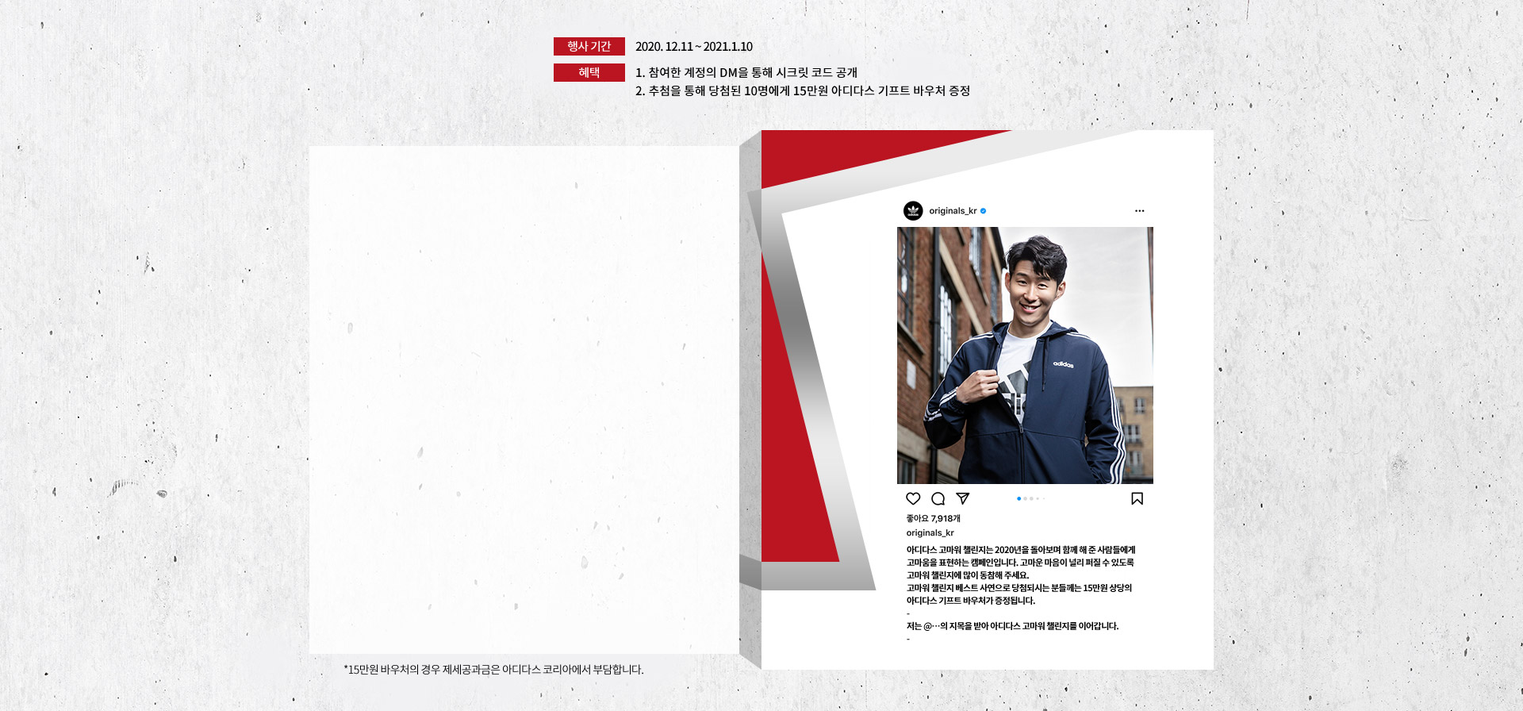
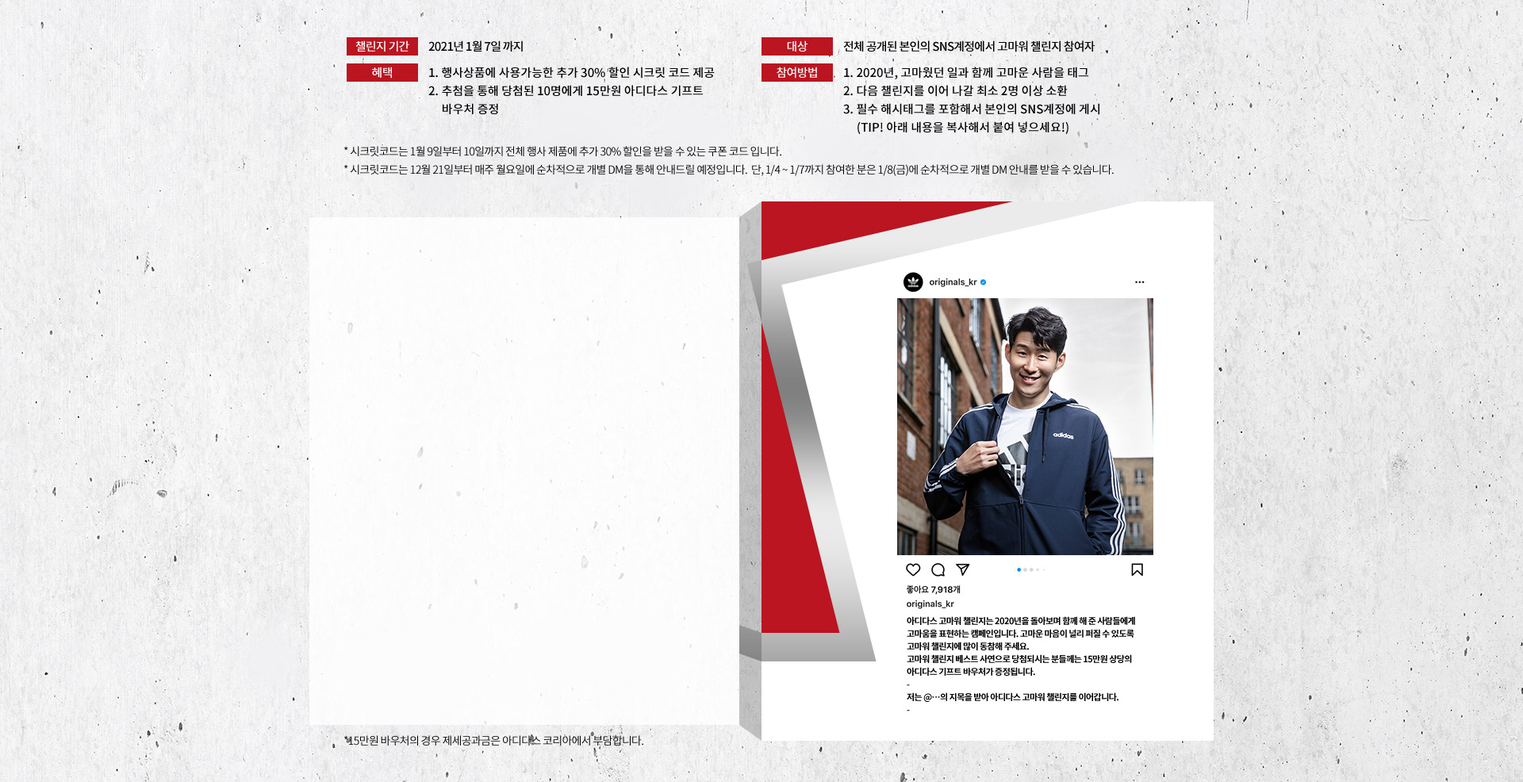
YES

Changed region(s): [[0.2188, 0.0312, 0.7812, 0.9062], [0.2188, 0.9375, 0.4375, 0.9688], [0.75, 0.1875, 0.8125, 0.25]]

diff --git a/front/html/adidas/2020/event/yearendsale/build/index.html b/front/html/adidas/2020/event/yearendsale/build/index.html
@@ -31,7 +31,7 @@
 		<header include-html="/html/adidas/inc/header.html"></header>
 
 		<div id="container_r" class="campaign-content">
-<style type="text/css">.pseudo-element{content:'';display:block}.button_area_v2{display:inline-block}.button_area_v2:hover div a{color:#767677}.button_area_v2:hover div a span{background:#767677}.button_area_v2:hover div a span em{background:#767677}.button_area_v2 div.white .bg{box-shadow:inset 0 0 0 1px #fff;-webkit-box-shadow:inset 0 0 0 1px #fff;transition:all 0.5s;-webkit-transition:all 0.5s;-moz-transition:all 0.5s;-o-transition:all 0.5s;-ms-transition:all 0.5s}.button_area_v2 div.white a{background:#fff}.button_area_v2 div .bg{box-shadow:inset 0 0 0 1px #000;-webkit-box-shadow:inset 0 0 0 1px #000;transition:all 0.5s;-webkit-transition:all 0.5s;-moz-transition:all 0.5s;-o-transition:all 0.5s;-ms-transition:all 0.5s}.button_area_v2 div a{letter-spacing:1px;padding:0 20px;background:#000}div,img,button{outline:none}span,p{white-space:nowrap}#yearendsale section{position:relative;margin:0 auto;min-width:1190px}#yearendsale .bg01{background:url("/images/adidas/2020/event/yearendsale/bg01.jpg") no-repeat;background-position:top;background-size:auto 100%}#yearendsale .bg01.bg01,#yearendsale .bg01.bg02{background-size:auto auto}#yearendsale .bg01.bg03{background-size:auto 100%}#yearendsale .bg02{background:url("/images/adidas/2020/event/yearendsale/bg02.jpg") no-repeat;background-position:top;background-size:auto 100%}#yearendsale .bg02.bg01,#yearendsale .bg02.bg02{background-size:auto auto}#yearendsale .bg02.bg03{background-size:auto 100%}#yearendsale .bg03{background:url("/images/adidas/2020/event/yearendsale/bg03.jpg") no-repeat;background-position:top;background-size:auto 100%}#yearendsale .bg03.bg01,#yearendsale .bg03.bg02{background-size:auto auto}#yearendsale .bg03.bg03{background-size:auto 100%}#yearendsale .bg04{background:url("/images/adidas/2020/event/yearendsale/bg04.jpg") no-repeat;background-position:top;background-size:auto 100%}#yearendsale .bg04.bg01,#yearendsale .bg04.bg02{background-size:auto auto}#yearendsale .bg04.bg03{background-size:auto 100%}#yearendsale .bg05{background:url("/images/adidas/2020/event/yearendsale/bg05.jpg") no-repeat;background-position:top;background-size:auto 100%}#yearendsale .bg05.bg01,#yearendsale .bg05.bg02{background-size:auto auto}#yearendsale .bg05.bg03{background-size:auto 100%}#yearendsale .bg06{background:url("/images/adidas/2020/event/yearendsale/bg06.jpg") no-repeat;background-position:top;background-size:auto 100%}#yearendsale .bg06.bg01,#yearendsale .bg06.bg02{background-size:auto auto}#yearendsale .bg06.bg03{background-size:auto 100%}#yearendsale .visuals{height:auto}#yearendsale .visuals div[class*=figure] img,#yearendsale .visuals div[class*=figure] video{width:100%}#yearendsale .visuals video{display:block}#yearendsale .visuals .visuals__text{position:absolute;top:56%;bottom:auto;left:18%;transform:translateY(-50%);margin-left:auto}@media screen and (max-width: 1300px){#yearendsale .visuals .visuals__text h3{font:90px/80px "adinenuPro-black";color:#2d3d7b;letter-spacing:4px}#yearendsale .visuals .visuals__text p{font:17px/17px "NotoSansKR";color:#fff;margin:5px 0 40px}}#yearendsale .event__description{height:520px}#yearendsale .event__description div[class*=figure]{position:absolute;top:0;bottom:auto;left:50%;transform:translateX(-50%);margin-left:auto}#yearendsale .slide__container::after{display:block;content:'';clear:both}#yearendsale .slide__container .slider .slick-list .slick-track .item img{margin:0 auto}#yearendsale .slide__container .slider .slick-dots{text-align:center;margin:60px 0 0;left:0;position:relative}#yearendsale .slide__container .slider .slick-dots li{display:inline-block;text-align:center;background:#a5a5a7;width:15px;height:15px;margin-right:9px;border-radius:50%}#yearendsale .slide__container .slider .slick-dots li button{border:0;background:none;text-indent:-9999px}#yearendsale .slide__container .slider .slick-dots li.slick-active{background:#b7131a}#yearendsale .slide__container .slider .slick-dots li:last-of-type{margin:0}#yearendsale .slide__container .slider__nav{position:absolute;top:35%;bottom:auto;left:auto;transform:translateY(-50%);margin-left:auto;width:100%}#yearendsale .slide__container .slider__nav .prev-button{position:absolute;top:50%;bottom:auto;left:0;transform:translateY(-50%);margin-left:auto}#yearendsale .slide__container .slider__nav .next-button{position:absolute;top:50%;bottom:auto;left:auto;transform:translateY(-50%);margin-left:auto;right:0}#yearendsale .slide__container .slider__nav .next-button img{transform:rotate(-180deg)}#yearendsale .slide__container.slide__container01{text-align:center;padding:45px 0}#yearendsale .slide__container.slide__container01 .slider .slick-list{max-width:1850px;overflow:hidden;margin:0 auto}#yearendsale .slide__container.slide__container01 .slider .slick-list .slick-track .item img{width:95.5%}#yearendsale .slide__container.slide__container01 .button_area_v2{padding:45px 0 80px}#yearendsale .slide__container.slide__container02{padding-top:295px;width:auto;min-width:unset;text-align:center}#yearendsale .slide__container.slide__container02 .slider .slick-list{width:530px;margin:0 auto}#yearendsale .slide__container.slide__container02 .slider .slick-list .item>div{position:relative;top:24px;vertical-align:bottom;text-align:center}#yearendsale .slide__container.slide__container02 .slider .slick-list .item>div p,#yearendsale .slide__container.slide__container02 .slider .slick-list .item>div span{text-align:center}#yearendsale .slide__container.slide__container02 .slider .slick-list .item.slick-current>div{top:0}#yearendsale .slide__container.slide__container02 .slider .slick-list .item.slick-current>div p,#yearendsale .slide__container.slide__container02 .slider .slick-list .item.slick-current>div span{font:700 25px/25px "NotoSansKR";color:#000}#yearendsale .slide__container.slide__container02 .slider .slick-dots{margin:80px 0 0;left:0;position:relative}#yearendsale .slide__container.slide__container02 .slider .slick-dots li{background:#a5a5a7}#yearendsale .slide__container.slide__container02 .slider .slick-dots li.slick-active{background:#b7131a}#yearendsale .slide__container.slide__container02 .slider__nav{width:100%;top:54%}#yearendsale .slide__container.slide__container02 .slider__nav .prev-button{left:0}#yearendsale .slide__container.slide__container02 .slider__nav .next-button{right:0}#yearendsale .slide__container.slide__container02 .slider__nav .next-button img{transform:rotate(-180deg)}#yearendsale .slide__container.slide__container02 .button_area_v2{padding:25px 0 50px}#yearendsale .slide__container.slide__container03{width:100%;margin:0 auto;text-align:center}#yearendsale .slide__container.slide__container03 .txt{height:120px}#yearendsale .slide__container.slide__container03 .txt .figure{position:absolute;top:0;bottom:auto;left:50%;transform:translateX(-50%);margin-left:auto}#yearendsale .slide__container.slide__container03 .slider .slick-list{width:80%;margin:0 auto}#yearendsale .slide__container.slide__container03 .slider .slick-list .item{margin:10px}#yearendsale .slide__container.slide__container03 .slider .slick-list .item img{width:100%}#yearendsale .slide__container.slide__container03 .slider .slick-dots{margin:20px 0 15px}#yearendsale .slide__container.slide__container03 .slider__nav{width:100%;top:54%}#yearendsale .slide__container.slide__container03 .slider__nav .prev-button{left:20px}#yearendsale .slide__container.slide__container03 .slider__nav .next-button{right:20px}#yearendsale .slide__container.slide__container03 .slider__nav .next-button img{transform:rotate(-180deg)}#yearendsale .hashText{text-align:center;padding:90px 0 40px 0}#yearendsale .hashText p{text-align:center;font:500 18px/26px "NotoSansKR";color:#000;margin-top:25px}#yearendsale .informations{padding-top:896px}#yearendsale .informations .txt{position:absolute;top:55%;bottom:auto;left:auto;transform:translateY(-50%);margin-left:auto;right:50%;margin-right:77px}#yearendsale .informations .txt p{font:500 15px/24px "NotoSansKR";color:#000}#yearendsale .informations .txt p em{font:900 15px/24px "NotoSansKR";color:#ba1521}#yearendsale .informations .txt p em.last{color:#000}#yearendsale .informations .txt p span{font:500 14px/23px "NotoSansKR";color:#ba1521;display:block;margin:10px 0}#yearendsale .informations .txt p .cont{line-height:20px;font:500 15px/24px "NotoSansKR";color:#000;color:#000}#yearendsale .informations .txt p .italics1{font:500 15px/24px "NotoSansKR";color:#000}#yearendsale .informations .txt p .italics1,#yearendsale .informations .txt p .italics2{font-style:italic}#yearendsale .slider__wrapper .txt{text-align:center;padding:85px 0}#yearendsale .slider__wrapper .coupons{position:absolute;top:327px;bottom:auto;left:50%;transform:translateX(-50%);margin-left:auto;z-index:2}#yearendsale .lookGift{text-align:center;padding:90px 0 80px}#yearendsale .lookGift .txt{text-align:center;padding-bottom:50px}#yearendsale .lookGift .txt>img{display:block;margin:0 auto}#yearendsale .lookGift .txt .button_area_v2{display:inline-block;margin-top:25px}#yearendsale .lookGift .txt .button_area_v2 .bg{box-shadow:inset 0 0 0 1px #ba1621;-webkit-box-shadow:inset 0 0 0 1px #ba1621}#yearendsale .lookGift .txt .button_area_v2 a{background:#ba1621}#yearendsale .lookGift .item{width:1270px;margin:0 auto}#yearendsale .eventInfo{height:1204px}#yearendsale .eventInfo .eventInfo__visual{position:absolute;top:0;bottom:auto;left:50%;transform:translateX(-50%);margin-left:auto}#yearendsale .eventInfo .button_area_v2{position:absolute;top:auto;bottom:376px;left:auto;transform:translateX(-50%);margin-left:auto;right:50%;margin-right:-201px}#yearendsale .eventInfo .button_area_v2:last-child{bottom:237px;margin-right:-192px}#yearendsale .bottoms{height:665px}#yearendsale .bottoms .bottoms__figure{position:absolute;top:0;bottom:auto;left:50%;transform:translateX(-50%);margin-left:auto}
+<style type="text/css">.pseudo-element{content:'';display:block}.button_area_v2{display:inline-block}.button_area_v2:hover div a{color:#767677}.button_area_v2:hover div a span{background:#767677}.button_area_v2:hover div a span em{background:#767677}.button_area_v2 div.white .bg{box-shadow:inset 0 0 0 1px #fff;-webkit-box-shadow:inset 0 0 0 1px #fff;transition:all 0.5s;-webkit-transition:all 0.5s;-moz-transition:all 0.5s;-o-transition:all 0.5s;-ms-transition:all 0.5s}.button_area_v2 div.white a{background:#fff}.button_area_v2 div .bg{box-shadow:inset 0 0 0 1px #000;-webkit-box-shadow:inset 0 0 0 1px #000;transition:all 0.5s;-webkit-transition:all 0.5s;-moz-transition:all 0.5s;-o-transition:all 0.5s;-ms-transition:all 0.5s}.button_area_v2 div a{letter-spacing:1px;padding:0 20px;background:#000}div,img,button{outline:none}span,p{white-space:nowrap}#yearendsale section{position:relative;margin:0 auto;min-width:1190px}#yearendsale .bg01{background:url("/images/adidas/2020/event/yearendsale/bg01.jpg") no-repeat;background-position:top;background-size:auto 100%}#yearendsale .bg01.bg02{background-size:auto auto}#yearendsale .bg01.bg01,#yearendsale .bg01.bg03{background-size:auto 100%}#yearendsale .bg02{background:url("/images/adidas/2020/event/yearendsale/bg02.jpg") no-repeat;background-position:top;background-size:auto 100%}#yearendsale .bg02.bg02{background-size:auto auto}#yearendsale .bg02.bg01,#yearendsale .bg02.bg03{background-size:auto 100%}#yearendsale .bg03{background:url("/images/adidas/2020/event/yearendsale/bg03.jpg") no-repeat;background-position:top;background-size:auto 100%}#yearendsale .bg03.bg02{background-size:auto auto}#yearendsale .bg03.bg01,#yearendsale .bg03.bg03{background-size:auto 100%}#yearendsale .bg04{background:url("/images/adidas/2020/event/yearendsale/bg04.jpg") no-repeat;background-position:top;background-size:auto 100%}#yearendsale .bg04.bg02{background-size:auto auto}#yearendsale .bg04.bg01,#yearendsale .bg04.bg03{background-size:auto 100%}#yearendsale .bg05{background:url("/images/adidas/2020/event/yearendsale/bg05.jpg") no-repeat;background-position:top;background-size:auto 100%}#yearendsale .bg05.bg02{background-size:auto auto}#yearendsale .bg05.bg01,#yearendsale .bg05.bg03{background-size:auto 100%}#yearendsale .bg06{background:url("/images/adidas/2020/event/yearendsale/bg06.jpg") no-repeat;background-position:top;background-size:auto 100%}#yearendsale .bg06.bg02{background-size:auto auto}#yearendsale .bg06.bg01,#yearendsale .bg06.bg03{background-size:auto 100%}#yearendsale .visuals{height:auto}#yearendsale .visuals div[class*=figure] img,#yearendsale .visuals div[class*=figure] video{width:100%}#yearendsale .visuals video{display:block}#yearendsale .visuals .visuals__text{position:absolute;top:56%;bottom:auto;left:18%;transform:translateY(-50%);margin-left:auto}@media screen and (max-width: 1300px){#yearendsale .visuals .visuals__text h3{font:90px/80px "adinenuPro-black";color:#2d3d7b;letter-spacing:4px}#yearendsale .visuals .visuals__text p{font:17px/17px "NotoSansKR";color:#fff;margin:5px 0 40px}}#yearendsale .event__description{height:520px}#yearendsale .event__description div[class*=figure]{position:absolute;top:0;bottom:auto;left:50%;transform:translateX(-50%);margin-left:auto}#yearendsale .slide__container::after{display:block;content:'';clear:both}#yearendsale .slide__container .slider .slick-list .slick-track .item img{margin:0 auto}#yearendsale .slide__container .slider .slick-dots{text-align:center;margin:60px 0 0;left:0;position:relative}#yearendsale .slide__container .slider .slick-dots li{display:inline-block;text-align:center;background:#a5a5a7;width:15px;height:15px;margin-right:9px;border-radius:50%}#yearendsale .slide__container .slider .slick-dots li button{border:0;background:none;text-indent:-9999px}#yearendsale .slide__container .slider .slick-dots li.slick-active{background:#b7131a}#yearendsale .slide__container .slider .slick-dots li:last-of-type{margin:0}#yearendsale .slide__container .slider__nav{position:absolute;top:35%;bottom:auto;left:auto;transform:translateY(-50%);margin-left:auto;width:100%}#yearendsale .slide__container .slider__nav .prev-button{position:absolute;top:50%;bottom:auto;left:0;transform:translateY(-50%);margin-left:auto}#yearendsale .slide__container .slider__nav .next-button{position:absolute;top:50%;bottom:auto;left:auto;transform:translateY(-50%);margin-left:auto;right:0}#yearendsale .slide__container .slider__nav .next-button img{transform:rotate(-180deg)}#yearendsale .slide__container.slide__container01{text-align:center;padding:45px 0}#yearendsale .slide__container.slide__container01 .slider .slick-list{max-width:1850px;overflow:hidden;margin:0 auto}#yearendsale .slide__container.slide__container01 .slider .slick-list .slick-track .item img{width:95.5%}#yearendsale .slide__container.slide__container01 .button_area_v2{padding:45px 0 80px}#yearendsale .slide__container.slide__container02{padding-top:295px;width:auto;min-width:unset;text-align:center}#yearendsale .slide__container.slide__container02 .slider .slick-list{width:530px;margin:0 auto}#yearendsale .slide__container.slide__container02 .slider .slick-list .item>div{position:relative;top:24px;vertical-align:bottom;text-align:center}#yearendsale .slide__container.slide__container02 .slider .slick-list .item>div p,#yearendsale .slide__container.slide__container02 .slider .slick-list .item>div span{text-align:center}#yearendsale .slide__container.slide__container02 .slider .slick-list .item.slick-current>div{top:0}#yearendsale .slide__container.slide__container02 .slider .slick-list .item.slick-current>div p,#yearendsale .slide__container.slide__container02 .slider .slick-list .item.slick-current>div span{font:700 25px/25px "NotoSansKR";color:#000}#yearendsale .slide__container.slide__container02 .slider .slick-dots{margin:80px 0 0;left:0;position:relative}#yearendsale .slide__container.slide__container02 .slider .slick-dots li{background:#a5a5a7}#yearendsale .slide__container.slide__container02 .slider .slick-dots li.slick-active{background:#b7131a}#yearendsale .slide__container.slide__container02 .slider__nav{width:100%;top:54%}#yearendsale .slide__container.slide__container02 .slider__nav .prev-button{left:0}#yearendsale .slide__container.slide__container02 .slider__nav .next-button{right:0}#yearendsale .slide__container.slide__container02 .slider__nav .next-button img{transform:rotate(-180deg)}#yearendsale .slide__container.slide__container02 .button_area_v2{padding:25px 0 50px}#yearendsale .slide__container.slide__container03{width:100%;margin:0 auto;text-align:center}#yearendsale .slide__container.slide__container03 .txt{height:120px}#yearendsale .slide__container.slide__container03 .txt .figure{position:absolute;top:0;bottom:auto;left:50%;transform:translateX(-50%);margin-left:auto}#yearendsale .slide__container.slide__container03 .slider .slick-list{width:80%;margin:0 auto}#yearendsale .slide__container.slide__container03 .slider .slick-list .item{margin:10px}#yearendsale .slide__container.slide__container03 .slider .slick-list .item img{width:100%}#yearendsale .slide__container.slide__container03 .slider .slick-dots{margin:20px 0 15px}#yearendsale .slide__container.slide__container03 .slider__nav{width:100%;top:54%}#yearendsale .slide__container.slide__container03 .slider__nav .prev-button{left:20px}#yearendsale .slide__container.slide__container03 .slider__nav .next-button{right:20px}#yearendsale .slide__container.slide__container03 .slider__nav .next-button img{transform:rotate(-180deg)}#yearendsale .hashText{text-align:center;padding:90px 0 40px 0}#yearendsale .hashText p{text-align:center;font:500 18px/26px "NotoSansKR";color:#000;margin-top:25px}#yearendsale .informations{padding-top:986px}#yearendsale .informations .txt{position:absolute;top:59%;bottom:auto;left:auto;transform:translateY(-50%);margin-left:auto;right:50%;margin-right:77px}#yearendsale .informations .txt p{font:500 15px/24px "NotoSansKR";color:#000}#yearendsale .informations .txt p em{font:900 15px/24px "NotoSansKR";color:#ba1521}#yearendsale .informations .txt p em.last{color:#000}#yearendsale .informations .txt p span{font:500 14px/23px "NotoSansKR";color:#ba1521;display:block;margin:10px 0}#yearendsale .informations .txt p .cont{line-height:20px;font:500 15px/24px "NotoSansKR";color:#000;color:#000}#yearendsale .informations .txt p .italics1{font:500 15px/24px "NotoSansKR";color:#000}#yearendsale .informations .txt p .italics1,#yearendsale .informations .txt p .italics2{font-style:italic}#yearendsale .slider__wrapper .txt{text-align:center;padding:85px 0}#yearendsale .slider__wrapper .coupons{position:absolute;top:327px;bottom:auto;left:50%;transform:translateX(-50%);margin-left:auto;z-index:2}#yearendsale .lookGift{text-align:center;padding:90px 0 80px}#yearendsale .lookGift .txt{text-align:center;padding-bottom:50px}#yearendsale .lookGift .txt>img{display:block;margin:0 auto}#yearendsale .lookGift .txt .button_area_v2{display:inline-block;margin-top:25px}#yearendsale .lookGift .txt .button_area_v2 .bg{box-shadow:inset 0 0 0 1px #ba1621;-webkit-box-shadow:inset 0 0 0 1px #ba1621}#yearendsale .lookGift .txt .button_area_v2 a{background:#ba1621}#yearendsale .lookGift .item{width:1270px;margin:0 auto}#yearendsale .eventInfo{height:1204px}#yearendsale .eventInfo .eventInfo__visual{position:absolute;top:0;bottom:auto;left:50%;transform:translateX(-50%);margin-left:auto}#yearendsale .eventInfo .button_area_v2{position:absolute;top:auto;bottom:376px;left:auto;transform:translateX(-50%);margin-left:auto;right:50%;margin-right:-201px}#yearendsale .eventInfo .button_area_v2:last-child{bottom:237px;margin-right:-192px}#yearendsale .bottoms{height:665px}#yearendsale .bottoms .bottoms__figure{position:absolute;top:0;bottom:auto;left:50%;transform:translateX(-50%);margin-left:auto}
 </style>
 			<link rel="stylesheet" type="text/css" href="/css/slick.css" />		
 			<div id="yearendsale">
@@ -63,13 +63,16 @@
 					<section class="slide__container slide__container01 bg01">
 						<div id="slider01" class="slider">
 							<div class="item">
-								<img src="/images/adidas/2020/event/yearendsale/slide01_01.png" alt="상품이미지01">
+								<img src="/images/adidas/2020/event/yearendsale/slide01_04.png" alt="상품이미지04">
 							</div>
 							<div class="item">
 								<img src="/images/adidas/2020/event/yearendsale/slide01_02.png" alt="상품이미지02">
 							</div>
 							<div class="item">
 								<img src="/images/adidas/2020/event/yearendsale/slide01_03.png" alt="상품이미지03">
+							</div>
+							<div class="item">
+								<img src="/images/adidas/2020/event/yearendsale/slide01_01.png" alt="상품이미지01">
 							</div>
 						</div>
 						<div class="slider__nav slider__nav01">
@@ -392,7 +395,7 @@
 						} else if ( elem.hasClass('sub-slide02') ) { // 세번째 슬라이드
 							this.mod( 3, false, false, false, true, '', false, false, false );
 						} else { // default slide
-							this.mod( 3, false, false, false, false, '', false, true, false );
+							this.mod( 3, false, false, false, true, '', false, true, false );
 						}
 					}
 

diff --git a/front/html/adidas/html/pn/GIFTSFOR.html b/front/html/adidas/html/pn/GIFTSFOR.html
@@ -1,5 +1,5 @@
 <div id="container_r" class="campaign-content">
-	<style type="text/css">.pseudo-element{content:'';display:block}.button_area_v2{display:inline-block}.button_area_v2:hover div a{color:#767677}.button_area_v2:hover div a span{background:#767677}.button_area_v2:hover div a span em{background:#767677}.button_area_v2 div.white .bg{box-shadow:inset 0 0 0 1px #fff;-webkit-box-shadow:inset 0 0 0 1px #fff;transition:all 0.5s;-webkit-transition:all 0.5s;-moz-transition:all 0.5s;-o-transition:all 0.5s;-ms-transition:all 0.5s}.button_area_v2 div.white a{background:#fff}.button_area_v2 div .bg{box-shadow:inset 0 0 0 1px #000;-webkit-box-shadow:inset 0 0 0 1px #000;transition:all 0.5s;-webkit-transition:all 0.5s;-moz-transition:all 0.5s;-o-transition:all 0.5s;-ms-transition:all 0.5s}.button_area_v2 div a{letter-spacing:1px;padding:0 20px;background:#000}div,img,button{outline:none}span,p{white-space:nowrap}#yearendsale section{position:relative;margin:0 auto;min-width:1190px}#yearendsale .bg01{background:url("/images/adidas/2020/event/yearendsale/bg01.jpg") no-repeat;background-position:top;background-size:auto 100%}#yearendsale .bg01.bg01,#yearendsale .bg01.bg02{background-size:auto auto}#yearendsale .bg01.bg03{background-size:auto 100%}#yearendsale .bg02{background:url("/images/adidas/2020/event/yearendsale/bg02.jpg") no-repeat;background-position:top;background-size:auto 100%}#yearendsale .bg02.bg01,#yearendsale .bg02.bg02{background-size:auto auto}#yearendsale .bg02.bg03{background-size:auto 100%}#yearendsale .bg03{background:url("/images/adidas/2020/event/yearendsale/bg03.jpg") no-repeat;background-position:top;background-size:auto 100%}#yearendsale .bg03.bg01,#yearendsale .bg03.bg02{background-size:auto auto}#yearendsale .bg03.bg03{background-size:auto 100%}#yearendsale .bg04{background:url("/images/adidas/2020/event/yearendsale/bg04.jpg") no-repeat;background-position:top;background-size:auto 100%}#yearendsale .bg04.bg01,#yearendsale .bg04.bg02{background-size:auto auto}#yearendsale .bg04.bg03{background-size:auto 100%}#yearendsale .bg05{background:url("/images/adidas/2020/event/yearendsale/bg05.jpg") no-repeat;background-position:top;background-size:auto 100%}#yearendsale .bg05.bg01,#yearendsale .bg05.bg02{background-size:auto auto}#yearendsale .bg05.bg03{background-size:auto 100%}#yearendsale .bg06{background:url("/images/adidas/2020/event/yearendsale/bg06.jpg") no-repeat;background-position:top;background-size:auto 100%}#yearendsale .bg06.bg01,#yearendsale .bg06.bg02{background-size:auto auto}#yearendsale .bg06.bg03{background-size:auto 100%}#yearendsale .visuals{height:auto}#yearendsale .visuals div[class*=figure] img,#yearendsale .visuals div[class*=figure] video{width:100%}#yearendsale .visuals video{display:block}#yearendsale .visuals .visuals__text{position:absolute;top:56%;bottom:auto;left:18%;transform:translateY(-50%);margin-left:auto}@media screen and (max-width: 1300px){#yearendsale .visuals .visuals__text h3{font:90px/80px "adinenuPro-black";color:#2d3d7b;letter-spacing:4px}#yearendsale .visuals .visuals__text p{font:17px/17px "NotoSansKR";color:#fff;margin:5px 0 40px}}#yearendsale .event__description{height:520px}#yearendsale .event__description div[class*=figure]{position:absolute;top:0;bottom:auto;left:50%;transform:translateX(-50%);margin-left:auto}#yearendsale .slide__container::after{display:block;content:'';clear:both}#yearendsale .slide__container .slider .slick-list .slick-track .item img{margin:0 auto}#yearendsale .slide__container .slider .slick-dots{text-align:center;margin:60px 0 0;left:0;position:relative}#yearendsale .slide__container .slider .slick-dots li{display:inline-block;text-align:center;background:#a5a5a7;width:15px;height:15px;margin-right:9px;border-radius:50%}#yearendsale .slide__container .slider .slick-dots li button{border:0;background:none;text-indent:-9999px}#yearendsale .slide__container .slider .slick-dots li.slick-active{background:#b7131a}#yearendsale .slide__container .slider .slick-dots li:last-of-type{margin:0}#yearendsale .slide__container .slider__nav{position:absolute;top:35%;bottom:auto;left:auto;transform:translateY(-50%);margin-left:auto;width:100%}#yearendsale .slide__container .slider__nav .prev-button{position:absolute;top:50%;bottom:auto;left:0;transform:translateY(-50%);margin-left:auto}#yearendsale .slide__container .slider__nav .next-button{position:absolute;top:50%;bottom:auto;left:auto;transform:translateY(-50%);margin-left:auto;right:0}#yearendsale .slide__container .slider__nav .next-button img{transform:rotate(-180deg)}#yearendsale .slide__container.slide__container01{text-align:center;padding:45px 0}#yearendsale .slide__container.slide__container01 .slider .slick-list{max-width:1850px;overflow:hidden;margin:0 auto}#yearendsale .slide__container.slide__container01 .slider .slick-list .slick-track .item img{width:95.5%}#yearendsale .slide__container.slide__container01 .button_area_v2{padding:45px 0 80px}#yearendsale .slide__container.slide__container02{padding-top:295px;width:auto;min-width:unset;text-align:center}#yearendsale .slide__container.slide__container02 .slider .slick-list{width:530px;margin:0 auto}#yearendsale .slide__container.slide__container02 .slider .slick-list .item>div{position:relative;top:24px;vertical-align:bottom;text-align:center}#yearendsale .slide__container.slide__container02 .slider .slick-list .item>div p,#yearendsale .slide__container.slide__container02 .slider .slick-list .item>div span{text-align:center}#yearendsale .slide__container.slide__container02 .slider .slick-list .item.slick-current>div{top:0}#yearendsale .slide__container.slide__container02 .slider .slick-list .item.slick-current>div p,#yearendsale .slide__container.slide__container02 .slider .slick-list .item.slick-current>div span{font:700 25px/25px "NotoSansKR";color:#000}#yearendsale .slide__container.slide__container02 .slider .slick-dots{margin:80px 0 0;left:0;position:relative}#yearendsale .slide__container.slide__container02 .slider .slick-dots li{background:#a5a5a7}#yearendsale .slide__container.slide__container02 .slider .slick-dots li.slick-active{background:#b7131a}#yearendsale .slide__container.slide__container02 .slider__nav{width:100%;top:54%}#yearendsale .slide__container.slide__container02 .slider__nav .prev-button{left:0}#yearendsale .slide__container.slide__container02 .slider__nav .next-button{right:0}#yearendsale .slide__container.slide__container02 .slider__nav .next-button img{transform:rotate(-180deg)}#yearendsale .slide__container.slide__container02 .button_area_v2{padding:25px 0 50px}#yearendsale .slide__container.slide__container03{width:100%;margin:0 auto;text-align:center}#yearendsale .slide__container.slide__container03 .txt{height:120px}#yearendsale .slide__container.slide__container03 .txt .figure{position:absolute;top:0;bottom:auto;left:50%;transform:translateX(-50%);margin-left:auto}#yearendsale .slide__container.slide__container03 .slider .slick-list{width:80%;margin:0 auto}#yearendsale .slide__container.slide__container03 .slider .slick-list .item{margin:10px}#yearendsale .slide__container.slide__container03 .slider .slick-list .item img{width:100%}#yearendsale .slide__container.slide__container03 .slider .slick-dots{margin:20px 0 15px}#yearendsale .slide__container.slide__container03 .slider__nav{width:100%;top:54%}#yearendsale .slide__container.slide__container03 .slider__nav .prev-button{left:20px}#yearendsale .slide__container.slide__container03 .slider__nav .next-button{right:20px}#yearendsale .slide__container.slide__container03 .slider__nav .next-button img{transform:rotate(-180deg)}#yearendsale .hashText{text-align:center;padding:90px 0 40px 0}#yearendsale .hashText p{text-align:center;font:500 18px/26px "NotoSansKR";color:#000;margin-top:25px}#yearendsale .informations{padding-top:896px}#yearendsale .informations .txt{position:absolute;top:55%;bottom:auto;left:auto;transform:translateY(-50%);margin-left:auto;right:50%;margin-right:77px}#yearendsale .informations .txt p{font:500 15px/24px "NotoSansKR";color:#000}#yearendsale .informations .txt p em{font:900 15px/24px "NotoSansKR";color:#ba1521}#yearendsale .informations .txt p em.last{color:#000}#yearendsale .informations .txt p span{font:500 14px/23px "NotoSansKR";color:#ba1521;display:block;margin:10px 0}#yearendsale .informations .txt p .cont{line-height:20px;font:500 15px/24px "NotoSansKR";color:#000;color:#000}#yearendsale .informations .txt p .italics1{font:500 15px/24px "NotoSansKR";color:#000}#yearendsale .informations .txt p .italics1,#yearendsale .informations .txt p .italics2{font-style:italic}#yearendsale .slider__wrapper .txt{text-align:center;padding:85px 0}#yearendsale .slider__wrapper .coupons{position:absolute;top:327px;bottom:auto;left:50%;transform:translateX(-50%);margin-left:auto;z-index:2}#yearendsale .lookGift{text-align:center;padding:90px 0 80px}#yearendsale .lookGift .txt{text-align:center;padding-bottom:50px}#yearendsale .lookGift .txt>img{display:block;margin:0 auto}#yearendsale .lookGift .txt .button_area_v2{display:inline-block;margin-top:25px}#yearendsale .lookGift .txt .button_area_v2 .bg{box-shadow:inset 0 0 0 1px #ba1621;-webkit-box-shadow:inset 0 0 0 1px #ba1621}#yearendsale .lookGift .txt .button_area_v2 a{background:#ba1621}#yearendsale .lookGift .item{width:1270px;margin:0 auto}#yearendsale .eventInfo{height:1204px}#yearendsale .eventInfo .eventInfo__visual{position:absolute;top:0;bottom:auto;left:50%;transform:translateX(-50%);margin-left:auto}#yearendsale .eventInfo .button_area_v2{position:absolute;top:auto;bottom:376px;left:auto;transform:translateX(-50%);margin-left:auto;right:50%;margin-right:-201px}#yearendsale .eventInfo .button_area_v2:last-child{bottom:237px;margin-right:-192px}#yearendsale .bottoms{height:665px}#yearendsale .bottoms .bottoms__figure{position:absolute;top:0;bottom:auto;left:50%;transform:translateX(-50%);margin-left:auto}
+	<style type="text/css">.pseudo-element{content:'';display:block}.button_area_v2{display:inline-block}.button_area_v2:hover div a{color:#767677}.button_area_v2:hover div a span{background:#767677}.button_area_v2:hover div a span em{background:#767677}.button_area_v2 div.white .bg{box-shadow:inset 0 0 0 1px #fff;-webkit-box-shadow:inset 0 0 0 1px #fff;transition:all 0.5s;-webkit-transition:all 0.5s;-moz-transition:all 0.5s;-o-transition:all 0.5s;-ms-transition:all 0.5s}.button_area_v2 div.white a{background:#fff}.button_area_v2 div .bg{box-shadow:inset 0 0 0 1px #000;-webkit-box-shadow:inset 0 0 0 1px #000;transition:all 0.5s;-webkit-transition:all 0.5s;-moz-transition:all 0.5s;-o-transition:all 0.5s;-ms-transition:all 0.5s}.button_area_v2 div a{letter-spacing:1px;padding:0 20px;background:#000}div,img,button{outline:none}span,p{white-space:nowrap}#yearendsale section{position:relative;margin:0 auto;min-width:1190px}#yearendsale .bg01{background:url("/images/adidas/2020/event/yearendsale/bg01.jpg") no-repeat;background-position:top;background-size:auto 100%}#yearendsale .bg01.bg02{background-size:auto auto}#yearendsale .bg01.bg01,#yearendsale .bg01.bg03{background-size:auto 100%}#yearendsale .bg02{background:url("/images/adidas/2020/event/yearendsale/bg02.jpg") no-repeat;background-position:top;background-size:auto 100%}#yearendsale .bg02.bg02{background-size:auto auto}#yearendsale .bg02.bg01,#yearendsale .bg02.bg03{background-size:auto 100%}#yearendsale .bg03{background:url("/images/adidas/2020/event/yearendsale/bg03.jpg") no-repeat;background-position:top;background-size:auto 100%}#yearendsale .bg03.bg02{background-size:auto auto}#yearendsale .bg03.bg01,#yearendsale .bg03.bg03{background-size:auto 100%}#yearendsale .bg04{background:url("/images/adidas/2020/event/yearendsale/bg04.jpg") no-repeat;background-position:top;background-size:auto 100%}#yearendsale .bg04.bg02{background-size:auto auto}#yearendsale .bg04.bg01,#yearendsale .bg04.bg03{background-size:auto 100%}#yearendsale .bg05{background:url("/images/adidas/2020/event/yearendsale/bg05.jpg") no-repeat;background-position:top;background-size:auto 100%}#yearendsale .bg05.bg02{background-size:auto auto}#yearendsale .bg05.bg01,#yearendsale .bg05.bg03{background-size:auto 100%}#yearendsale .bg06{background:url("/images/adidas/2020/event/yearendsale/bg06.jpg") no-repeat;background-position:top;background-size:auto 100%}#yearendsale .bg06.bg02{background-size:auto auto}#yearendsale .bg06.bg01,#yearendsale .bg06.bg03{background-size:auto 100%}#yearendsale .visuals{height:auto}#yearendsale .visuals div[class*=figure] img,#yearendsale .visuals div[class*=figure] video{width:100%}#yearendsale .visuals video{display:block}#yearendsale .visuals .visuals__text{position:absolute;top:56%;bottom:auto;left:18%;transform:translateY(-50%);margin-left:auto}@media screen and (max-width: 1300px){#yearendsale .visuals .visuals__text h3{font:90px/80px "adinenuPro-black";color:#2d3d7b;letter-spacing:4px}#yearendsale .visuals .visuals__text p{font:17px/17px "NotoSansKR";color:#fff;margin:5px 0 40px}}#yearendsale .event__description{height:520px}#yearendsale .event__description div[class*=figure]{position:absolute;top:0;bottom:auto;left:50%;transform:translateX(-50%);margin-left:auto}#yearendsale .slide__container::after{display:block;content:'';clear:both}#yearendsale .slide__container .slider .slick-list .slick-track .item img{margin:0 auto}#yearendsale .slide__container .slider .slick-dots{text-align:center;margin:60px 0 0;left:0;position:relative}#yearendsale .slide__container .slider .slick-dots li{display:inline-block;text-align:center;background:#a5a5a7;width:15px;height:15px;margin-right:9px;border-radius:50%}#yearendsale .slide__container .slider .slick-dots li button{border:0;background:none;text-indent:-9999px}#yearendsale .slide__container .slider .slick-dots li.slick-active{background:#b7131a}#yearendsale .slide__container .slider .slick-dots li:last-of-type{margin:0}#yearendsale .slide__container .slider__nav{position:absolute;top:35%;bottom:auto;left:auto;transform:translateY(-50%);margin-left:auto;width:100%}#yearendsale .slide__container .slider__nav .prev-button{position:absolute;top:50%;bottom:auto;left:0;transform:translateY(-50%);margin-left:auto}#yearendsale .slide__container .slider__nav .next-button{position:absolute;top:50%;bottom:auto;left:auto;transform:translateY(-50%);margin-left:auto;right:0}#yearendsale .slide__container .slider__nav .next-button img{transform:rotate(-180deg)}#yearendsale .slide__container.slide__container01{text-align:center;padding:45px 0}#yearendsale .slide__container.slide__container01 .slider .slick-list{max-width:1850px;overflow:hidden;margin:0 auto}#yearendsale .slide__container.slide__container01 .slider .slick-list .slick-track .item img{width:95.5%}#yearendsale .slide__container.slide__container01 .button_area_v2{padding:45px 0 80px}#yearendsale .slide__container.slide__container02{padding-top:295px;width:auto;min-width:unset;text-align:center}#yearendsale .slide__container.slide__container02 .slider .slick-list{width:530px;margin:0 auto}#yearendsale .slide__container.slide__container02 .slider .slick-list .item>div{position:relative;top:24px;vertical-align:bottom;text-align:center}#yearendsale .slide__container.slide__container02 .slider .slick-list .item>div p,#yearendsale .slide__container.slide__container02 .slider .slick-list .item>div span{text-align:center}#yearendsale .slide__container.slide__container02 .slider .slick-list .item.slick-current>div{top:0}#yearendsale .slide__container.slide__container02 .slider .slick-list .item.slick-current>div p,#yearendsale .slide__container.slide__container02 .slider .slick-list .item.slick-current>div span{font:700 25px/25px "NotoSansKR";color:#000}#yearendsale .slide__container.slide__container02 .slider .slick-dots{margin:80px 0 0;left:0;position:relative}#yearendsale .slide__container.slide__container02 .slider .slick-dots li{background:#a5a5a7}#yearendsale .slide__container.slide__container02 .slider .slick-dots li.slick-active{background:#b7131a}#yearendsale .slide__container.slide__container02 .slider__nav{width:100%;top:54%}#yearendsale .slide__container.slide__container02 .slider__nav .prev-button{left:0}#yearendsale .slide__container.slide__container02 .slider__nav .next-button{right:0}#yearendsale .slide__container.slide__container02 .slider__nav .next-button img{transform:rotate(-180deg)}#yearendsale .slide__container.slide__container02 .button_area_v2{padding:25px 0 50px}#yearendsale .slide__container.slide__container03{width:100%;margin:0 auto;text-align:center}#yearendsale .slide__container.slide__container03 .txt{height:120px}#yearendsale .slide__container.slide__container03 .txt .figure{position:absolute;top:0;bottom:auto;left:50%;transform:translateX(-50%);margin-left:auto}#yearendsale .slide__container.slide__container03 .slider .slick-list{width:80%;margin:0 auto}#yearendsale .slide__container.slide__container03 .slider .slick-list .item{margin:10px}#yearendsale .slide__container.slide__container03 .slider .slick-list .item img{width:100%}#yearendsale .slide__container.slide__container03 .slider .slick-dots{margin:20px 0 15px}#yearendsale .slide__container.slide__container03 .slider__nav{width:100%;top:54%}#yearendsale .slide__container.slide__container03 .slider__nav .prev-button{left:20px}#yearendsale .slide__container.slide__container03 .slider__nav .next-button{right:20px}#yearendsale .slide__container.slide__container03 .slider__nav .next-button img{transform:rotate(-180deg)}#yearendsale .hashText{text-align:center;padding:90px 0 40px 0}#yearendsale .hashText p{text-align:center;font:500 18px/26px "NotoSansKR";color:#000;margin-top:25px}#yearendsale .informations{padding-top:986px}#yearendsale .informations .txt{position:absolute;top:59%;bottom:auto;left:auto;transform:translateY(-50%);margin-left:auto;right:50%;margin-right:77px}#yearendsale .informations .txt p{font:500 15px/24px "NotoSansKR";color:#000}#yearendsale .informations .txt p em{font:900 15px/24px "NotoSansKR";color:#ba1521}#yearendsale .informations .txt p em.last{color:#000}#yearendsale .informations .txt p span{font:500 14px/23px "NotoSansKR";color:#ba1521;display:block;margin:10px 0}#yearendsale .informations .txt p .cont{line-height:20px;font:500 15px/24px "NotoSansKR";color:#000;color:#000}#yearendsale .informations .txt p .italics1{font:500 15px/24px "NotoSansKR";color:#000}#yearendsale .informations .txt p .italics1,#yearendsale .informations .txt p .italics2{font-style:italic}#yearendsale .slider__wrapper .txt{text-align:center;padding:85px 0}#yearendsale .slider__wrapper .coupons{position:absolute;top:327px;bottom:auto;left:50%;transform:translateX(-50%);margin-left:auto;z-index:2}#yearendsale .lookGift{text-align:center;padding:90px 0 80px}#yearendsale .lookGift .txt{text-align:center;padding-bottom:50px}#yearendsale .lookGift .txt>img{display:block;margin:0 auto}#yearendsale .lookGift .txt .button_area_v2{display:inline-block;margin-top:25px}#yearendsale .lookGift .txt .button_area_v2 .bg{box-shadow:inset 0 0 0 1px #ba1621;-webkit-box-shadow:inset 0 0 0 1px #ba1621}#yearendsale .lookGift .txt .button_area_v2 a{background:#ba1621}#yearendsale .lookGift .item{width:1270px;margin:0 auto}#yearendsale .eventInfo{height:1204px}#yearendsale .eventInfo .eventInfo__visual{position:absolute;top:0;bottom:auto;left:50%;transform:translateX(-50%);margin-left:auto}#yearendsale .eventInfo .button_area_v2{position:absolute;top:auto;bottom:376px;left:auto;transform:translateX(-50%);margin-left:auto;right:50%;margin-right:-201px}#yearendsale .eventInfo .button_area_v2:last-child{bottom:237px;margin-right:-192px}#yearendsale .bottoms{height:665px}#yearendsale .bottoms .bottoms__figure{position:absolute;top:0;bottom:auto;left:50%;transform:translateX(-50%);margin-left:auto}
 	</style>
 				<link rel="stylesheet" type="text/css" href="/css/slick.css" />		
 				<div id="yearendsale">
@@ -31,13 +31,16 @@
 						<section class="slide__container slide__container01 bg01">
 							<div id="slider01" class="slider">
 								<div class="item">
-									<img src="/images/adidas/2020/event/yearendsale/slide01_01.png" alt="상품이미지01">
+									<img src="/images/adidas/2020/event/yearendsale/slide01_04.png" alt="상품이미지04">
 								</div>
 								<div class="item">
 									<img src="/images/adidas/2020/event/yearendsale/slide01_02.png" alt="상품이미지02">
 								</div>
 								<div class="item">
 									<img src="/images/adidas/2020/event/yearendsale/slide01_03.png" alt="상품이미지03">
+								</div>
+								<div class="item">
+									<img src="/images/adidas/2020/event/yearendsale/slide01_01.png" alt="상품이미지01">
 								</div>
 							</div>
 							<div class="slider__nav slider__nav01">
@@ -360,7 +363,7 @@
 							} else if ( elem.hasClass('sub-slide02') ) { // 세번째 슬라이드
 								this.mod( 3, false, false, false, true, '', false, false, false );
 							} else { // default slide
-								this.mod( 3, false, false, false, false, '', false, true, false );
+								this.mod( 3, false, false, false, true, '', false, true, false );
 							}
 						}
 	

diff --git a/front/html/adidas/2020/event/yearendsale/index.html b/front/html/adidas/2020/event/yearendsale/index.html
@@ -61,13 +61,16 @@
 					<section class="slide__container slide__container01 bg01">
 						<div id="slider01" class="slider">
 							<div class="item">
-								<img src="/images/adidas/2020/event/yearendsale/slide01_01.png" alt="상품이미지01">
+								<img src="/images/adidas/2020/event/yearendsale/slide01_04.png" alt="상품이미지04">
 							</div>
 							<div class="item">
 								<img src="/images/adidas/2020/event/yearendsale/slide01_02.png" alt="상품이미지02">
 							</div>
 							<div class="item">
 								<img src="/images/adidas/2020/event/yearendsale/slide01_03.png" alt="상품이미지03">
+							</div>
+							<div class="item">
+								<img src="/images/adidas/2020/event/yearendsale/slide01_01.png" alt="상품이미지01">
 							</div>
 						</div>
 						<div class="slider__nav slider__nav01">
@@ -390,7 +393,7 @@
 						} else if ( elem.hasClass('sub-slide02') ) { // 세번째 슬라이드
 							this.mod( 3, false, false, false, true, '', false, false, false );
 						} else { // default slide
-							this.mod( 3, false, false, false, false, '', false, true, false );
+							this.mod( 3, false, false, false, true, '', false, true, false );
 						}
 					}
 

diff --git a/front/html/adidas/2020/event/yearendsale/index.scss b/front/html/adidas/2020/event/yearendsale/index.scss
@@ -55,10 +55,10 @@ span, p{
 			background: url('/images/adidas/2020/event/yearendsale/bg0#{$i}.jpg') no-repeat;
 			background-position: top;
 			background-size: auto 100%;
-			&.bg01, &.bg02{
+			&.bg02{
 				background-size: auto auto;
 			}
-			&.bg03 {
+			&.bg01, &.bg03 {
 				background-size: auto 100%;
 			}
 		}
@@ -290,9 +290,9 @@ span, p{
 		// .informations__figure{
 		// 	@include center(0, auto, 50%, $ctX);
 		// }
-		padding-top: 896px;
+		padding-top: 986px;
 		.txt{
-			@include center(55%, auto, auto, $ctY);
+			@include center(59%, auto, auto, $ctY);
 			right: 50%;
 			margin-right: 77px;
 			@mixin text01(){
